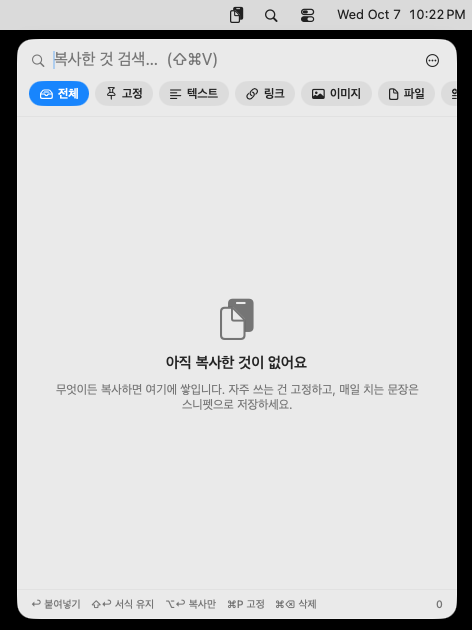
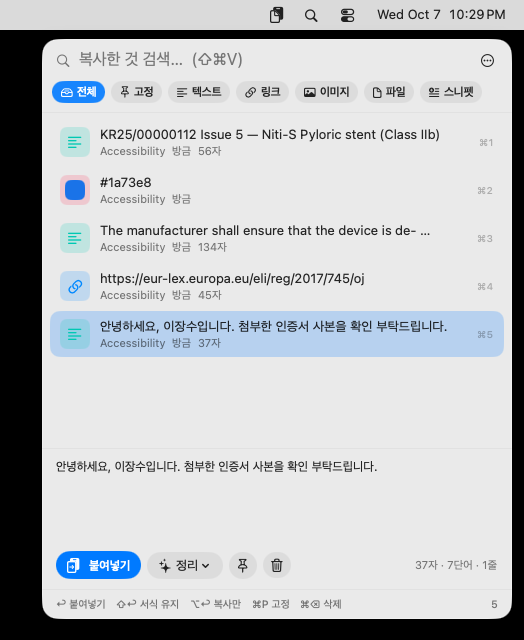
README: one-line terminal install using the latest release; ClipMint screenshot [skip ci]
Claude-Session: https://claude.ai/code/session_01NvWpW3GoHotuH4hi98Vcta

diff --git a/mac/README.md b/mac/README.md
@@ -29,17 +29,21 @@ GitHub **Releases** 페이지에서 `.dmg` 파일을 받습니다.
 3. **시스템 설정 → 개인정보 보호 및 보안** 으로 가서 아래로 내리면 "‘ClipMint’이(가) Mac을 보호하기 위해 차단되었습니다" 문구 옆에 **그래도 열기** 버튼이 있습니다. 누르고 Touch ID/비밀번호를 입력한 뒤, 다시 뜨는 창에서 **열기**를 누릅니다.
 4. 두 번째 앱도 같은 방법으로 허용합니다.
 
-터미널이 편하면 이 한 줄로 대신할 수 있습니다(차단 표시만 제거합니다):
+**가장 빠른 방법(터미널 한 줄)** — 터미널을 열고 아래를 통째로 붙여넣고 Enter. 최신 버전 다운로드·설치·차단 해제·실행까지 한 번에 됩니다.
 
 ```bash
-xattr -dr com.apple.quarantine /Applications/ClipMint.app /Applications/Approach.app
+cd ~/Downloads && curl -L -o ClipMint.zip https://github.com/joofam0819-crypto/claude-cloud/releases/latest/download/ClipMint-1.0.0-mac.zip && curl -L -o Approach.zip https://github.com/joofam0819-crypto/claude-cloud/releases/latest/download/Approach-1.0.0-mac.zip && ditto -x -k ClipMint.zip /Applications && ditto -x -k Approach.zip /Applications && xattr -dr com.apple.quarantine /Applications/ClipMint.app /Applications/Approach.app && open /Applications/ClipMint.app && open /Applications/Approach.app
 ```
+
+이미 앱을 복사해 두었다면 차단 표시만 지워도 됩니다: `xattr -dr com.apple.quarantine /Applications/ClipMint.app /Applications/Approach.app`
 
 소스 코드는 이 저장소에 전부 공개되어 있고, 앱은 GitHub의 macOS 빌드 서버에서 자동으로 만들어집니다(`.github/workflows/mac-build.yml`).
 
 ## 3. ClipMint 사용법
 
 메뉴 막대(화면 위 오른쪽)에 📋 아이콘이 생깁니다. Dock에는 나타나지 않습니다.
+
+![ClipMint 패널](screenshots/clipmint-panel.png)
 
 **바로 쓸 것 4가지**
 1. **⇧⌘V** — 어디서든 복사 기록 패널을 엽니다. 글자를 치면 바로 검색, ↑↓로 고르고 **Enter**로 붙여넣기.
